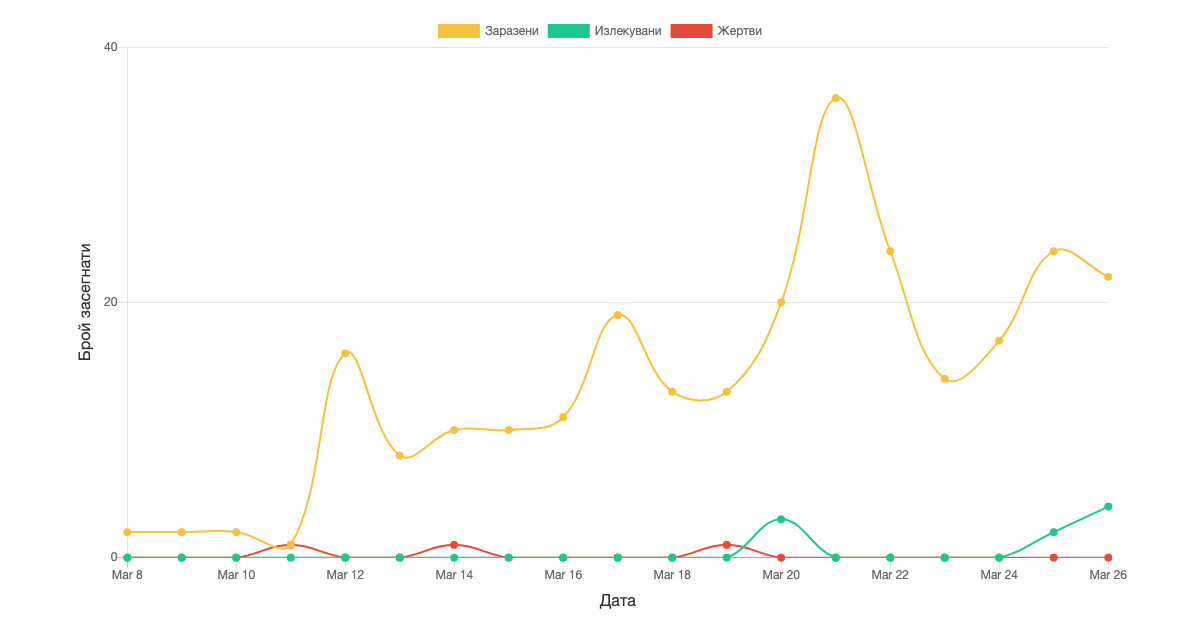
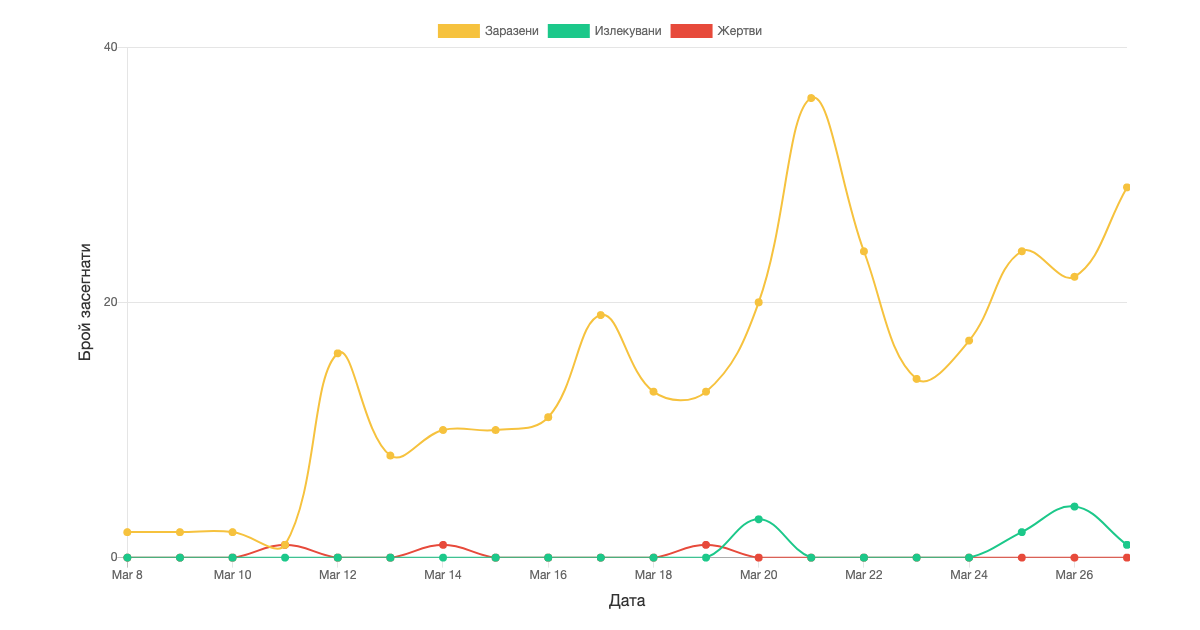
Added data for 27.03.

diff --git a/pages/index.js b/pages/index.js
@@ -42,7 +42,7 @@ const Index = () => {
           <h1 className="h3 mb-0 text-gray-800">Начало</h1>
         </div>
         <CasesOverview
-          infected={TotalsDataset.infected - TotalsDataset.cured - TotalsDataset.fatal}
+          infected={TotalsDataset.infected}
           cured={TotalsDataset.cured}
           fatal={TotalsDataset.fatal}
         />
